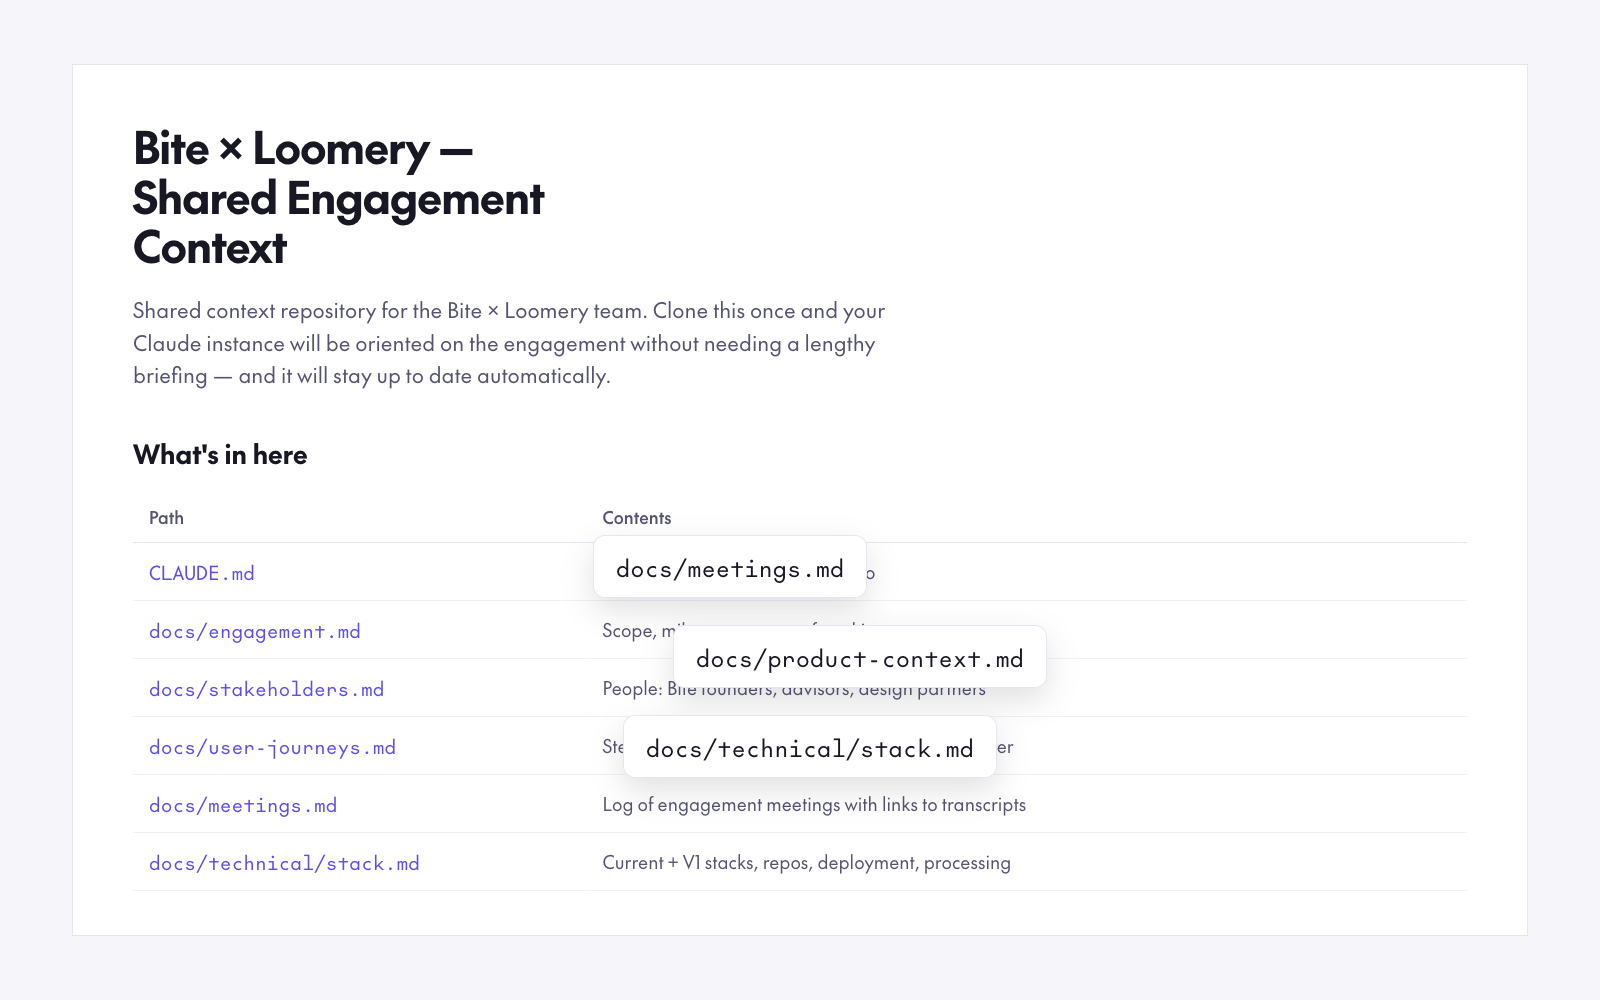
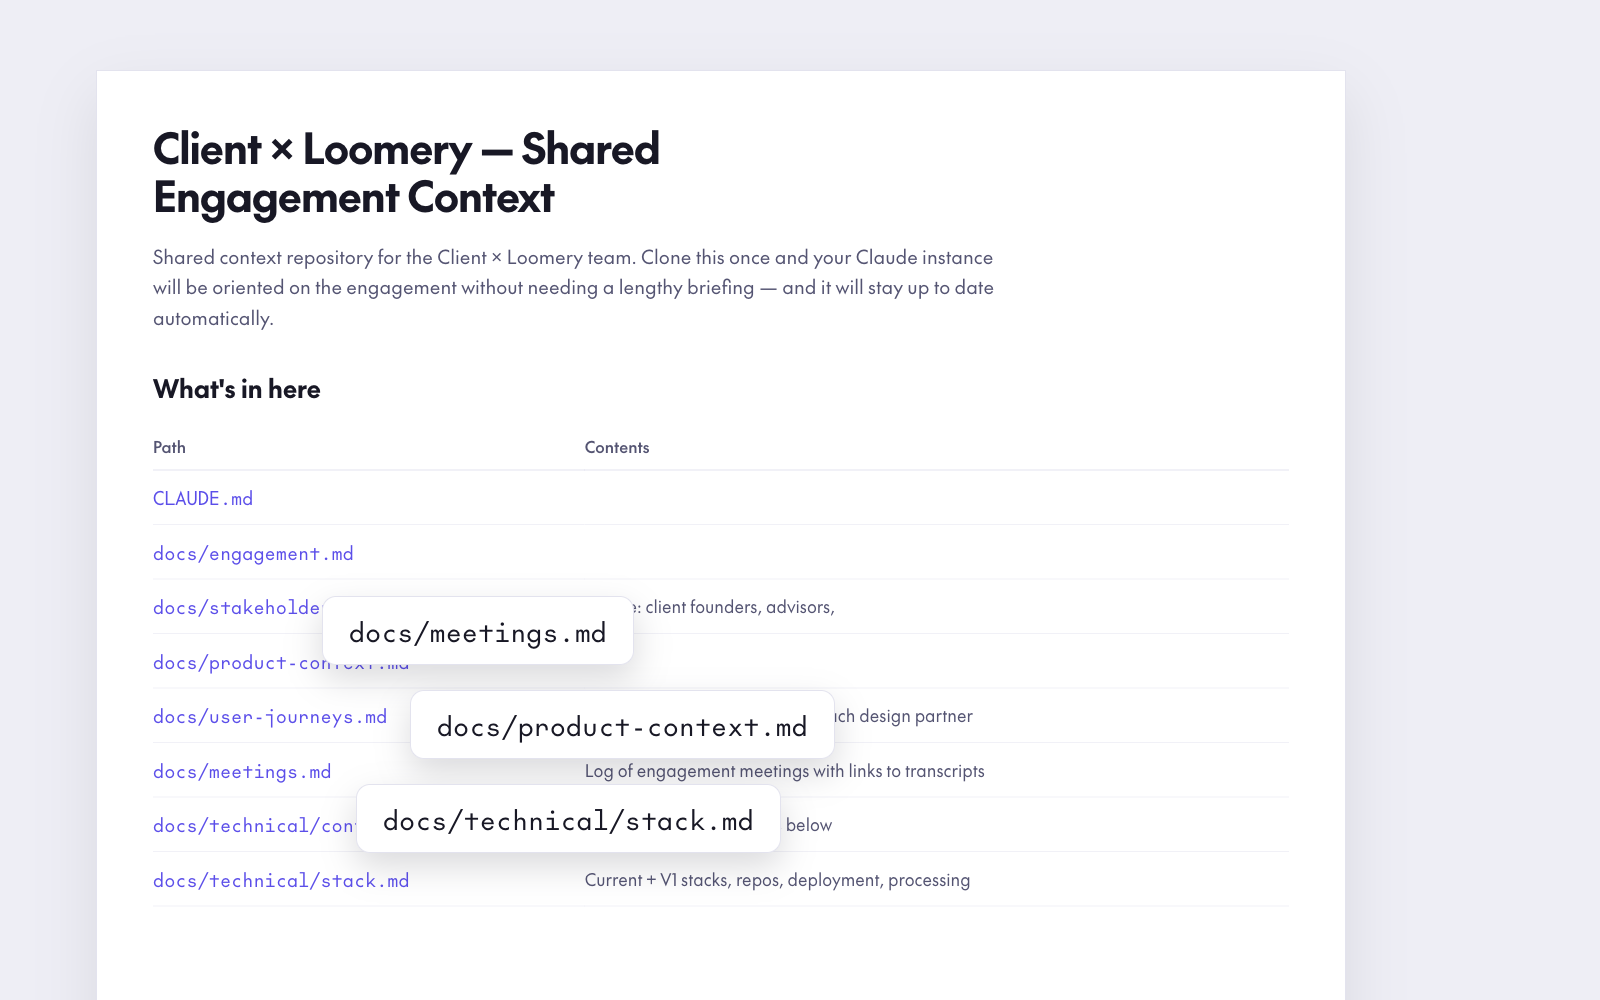
Rebuild the Warp mockup closer to the slide; Bite becomes Client
The first attempt was too tidy. The original reads as a crop of a longer
document - the card bleeds off the bottom and right the way a real
screenshot does - and the floating path chips sit over the Path column
rather than the Contents column. Also restores the two rows I had
dropped (product-context.md, technical/context.md) and the blank
Contents cells, which is what the source actually shows.

The client is now "Client x Loomery" rather than naming Bite. The real
Bite reference in the Evidence section is untouched - that one is a
named case study, not a mockup.

diff --git a/mockups/warp.html b/mockups/warp.html
@@ -1,36 +1,43 @@
 <meta charset="utf-8">
 <link rel="stylesheet" href="_base.css">
 <style>
-body{padding:64px 72px;background:#f5f5fa}
-.doc{background:#fff;border:1px solid #e6e6ef;height:100%;padding:56px 60px;position:relative}
-h1{font-size:44px;font-weight:600;line-height:1.12;letter-spacing:-.02em;color:#181825;max-width:15ch}
-.intro{margin-top:24px;font-size:21px;line-height:1.55;color:#545472;max-width:60ch}
-h2{margin-top:44px;font-size:26px;font-weight:600;color:#181825}
-table{margin-top:20px;width:100%;border-collapse:collapse;font-size:19px}
-th{text-align:left;padding:14px 16px;border-bottom:1px solid #e6e6ef;color:#545472;font-weight:500;font-size:17px}
-td{padding:15px 16px;border-bottom:1px solid #f0f0f6;color:#181825;vertical-align:top}
-td.p{width:34%;color:#5b4ee9}
-td.c{color:#545472;font-size:18px;line-height:1.45}
-.chip{position:absolute;background:#fff;border:1px solid #e6e6ef;border-radius:12px;
-  box-shadow:0 12px 30px rgba(24,24,37,.13);padding:14px 22px;font-size:23px;color:#181825;white-space:nowrap}
-.c1{left:520px;top:470px}
-.c2{left:600px;top:560px}
-.c3{left:550px;top:650px}
+body{padding:0;background:#eeeef5;display:grid;place-items:center}
+/* a crop of a longer doc: the card is taller and wider than the frame, so the
+   table runs off the bottom and right the way it does in a real screenshot */
+.crop{width:1600px;height:1000px;overflow:hidden;position:relative;padding:70px 0 0 96px}
+.doc{width:1250px;height:1120px;background:#fff;border:1px solid #e3e3ee;
+  box-shadow:0 24px 60px rgba(24,24,37,.10);padding:52px 56px;overflow:hidden}
+h1{font-size:42px;font-weight:600;line-height:1.14;letter-spacing:-.02em;color:#181825;max-width:20ch}
+.intro{margin-top:22px;font-size:19px;line-height:1.6;color:#545472;max-width:74ch}
+h2{margin-top:38px;font-size:25px;font-weight:600;color:#181825}
+table{margin-top:18px;width:100%;border-collapse:collapse}
+th{text-align:left;padding:12px 14px 12px 0;border-bottom:1px solid #e3e3ee;
+  color:#545472;font-weight:500;font-size:16px}
+td{padding:14px 14px 14px 0;border-bottom:1px solid #f1f1f7;vertical-align:top}
+td.p{width:38%;font-size:18px;color:#5b4ee9;white-space:nowrap}
+td.c{font-size:17px;line-height:1.45;color:#545472}
+.chip{position:absolute;background:#fff;border:1px solid #e3e3ee;border-radius:14px;
+  box-shadow:0 14px 34px rgba(24,24,37,.16);padding:15px 26px;font-size:26px;
+  color:#181825;white-space:nowrap}
 </style>
-<div class="doc">
-  <h1>Bite × Loomery — Shared Engagement Context</h1>
-  <p class="intro">Shared context repository for the Bite × Loomery team. Clone this once and your Claude instance will be oriented on the engagement without needing a lengthy briefing — and it will stay up to date automatically.</p>
-  <h2>What's in here</h2>
-  <table>
-    <tr><th>Path</th><th>Contents</th></tr>
-    <tr><td class="p mono">CLAUDE.md</td><td class="c">Entry point — how to use this repo</td></tr>
-    <tr><td class="p mono">docs/engagement.md</td><td class="c">Scope, milestones, ways of working</td></tr>
-    <tr><td class="p mono">docs/stakeholders.md</td><td class="c">People: Bite founders, advisors, design partners</td></tr>
-    <tr><td class="p mono">docs/user-journeys.md</td><td class="c">Step-by-step user journeys for each design partner</td></tr>
-    <tr><td class="p mono">docs/meetings.md</td><td class="c">Log of engagement meetings with links to transcripts</td></tr>
-    <tr><td class="p mono">docs/technical/stack.md</td><td class="c">Current + V1 stacks, repos, deployment, processing</td></tr>
-  </table>
-  <span class="chip mono c1">docs/meetings.md</span>
-  <span class="chip mono c2">docs/product-context.md</span>
-  <span class="chip mono c3">docs/technical/stack.md</span>
+<div class="crop">
+  <div class="doc">
+    <h1>Client × Loomery — Shared Engagement Context</h1>
+    <p class="intro">Shared context repository for the Client × Loomery team. Clone this once and your Claude instance will be oriented on the engagement without needing a lengthy briefing — and it will stay up to date automatically.</p>
+    <h2>What's in here</h2>
+    <table>
+      <tr><th>Path</th><th>Contents</th></tr>
+      <tr><td class="p mono">CLAUDE.md</td><td class="c"></td></tr>
+      <tr><td class="p mono">docs/engagement.md</td><td class="c"></td></tr>
+      <tr><td class="p mono">docs/stakeholders.md</td><td class="c">People: client founders, advisors,</td></tr>
+      <tr><td class="p mono">docs/product-context.md</td><td class="c"></td></tr>
+      <tr><td class="p mono">docs/user-journeys.md</td><td class="c">Step-by-step user journeys for each design partner</td></tr>
+      <tr><td class="p mono">docs/meetings.md</td><td class="c">Log of engagement meetings with links to transcripts</td></tr>
+      <tr><td class="p mono">docs/technical/context.md</td><td class="c">Index to the technical files below</td></tr>
+      <tr><td class="p mono">docs/technical/stack.md</td><td class="c">Current + V1 stacks, repos, deployment, processing</td></tr>
+    </table>
+  </div>
+  <span class="chip mono" style="left:322px;top:596px">docs/meetings.md</span>
+  <span class="chip mono" style="left:410px;top:690px">docs/product-context.md</span>
+  <span class="chip mono" style="left:356px;top:784px">docs/technical/stack.md</span>
 </div>

diff --git a/index.html b/index.html
@@ -206,7 +206,7 @@
           <div class="pscroll__frame">
         <div class="ppane" data-product="warp" data-on>
           <div class="media" data-media="warp">
-            <img src="images/product-warp.png" alt="Warp: a shared engagement context repo, with the project docs an agent reads" loading="lazy" width="1600" height="1000">
+            <img src="images/product-warp.png" alt="Warp: a shared engagement context repo — the project docs an agent reads, listed by path" loading="lazy" width="1600" height="1000">
           </div>
         </div>
         <div class="ppane" data-product="heddle">
